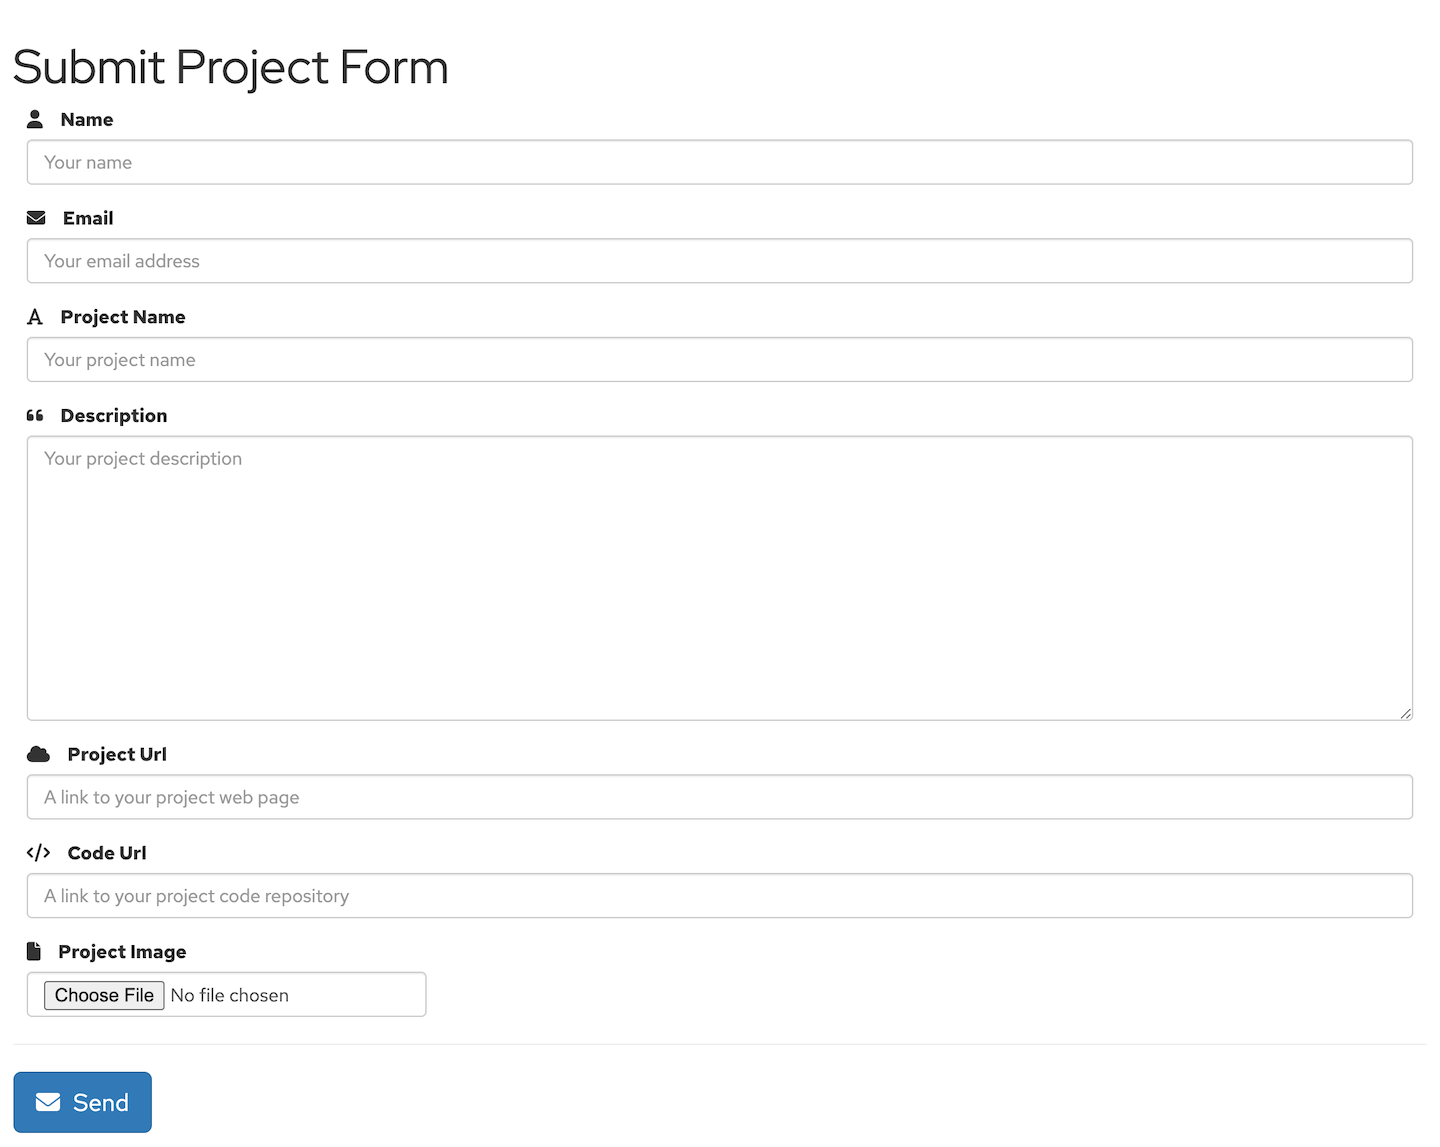
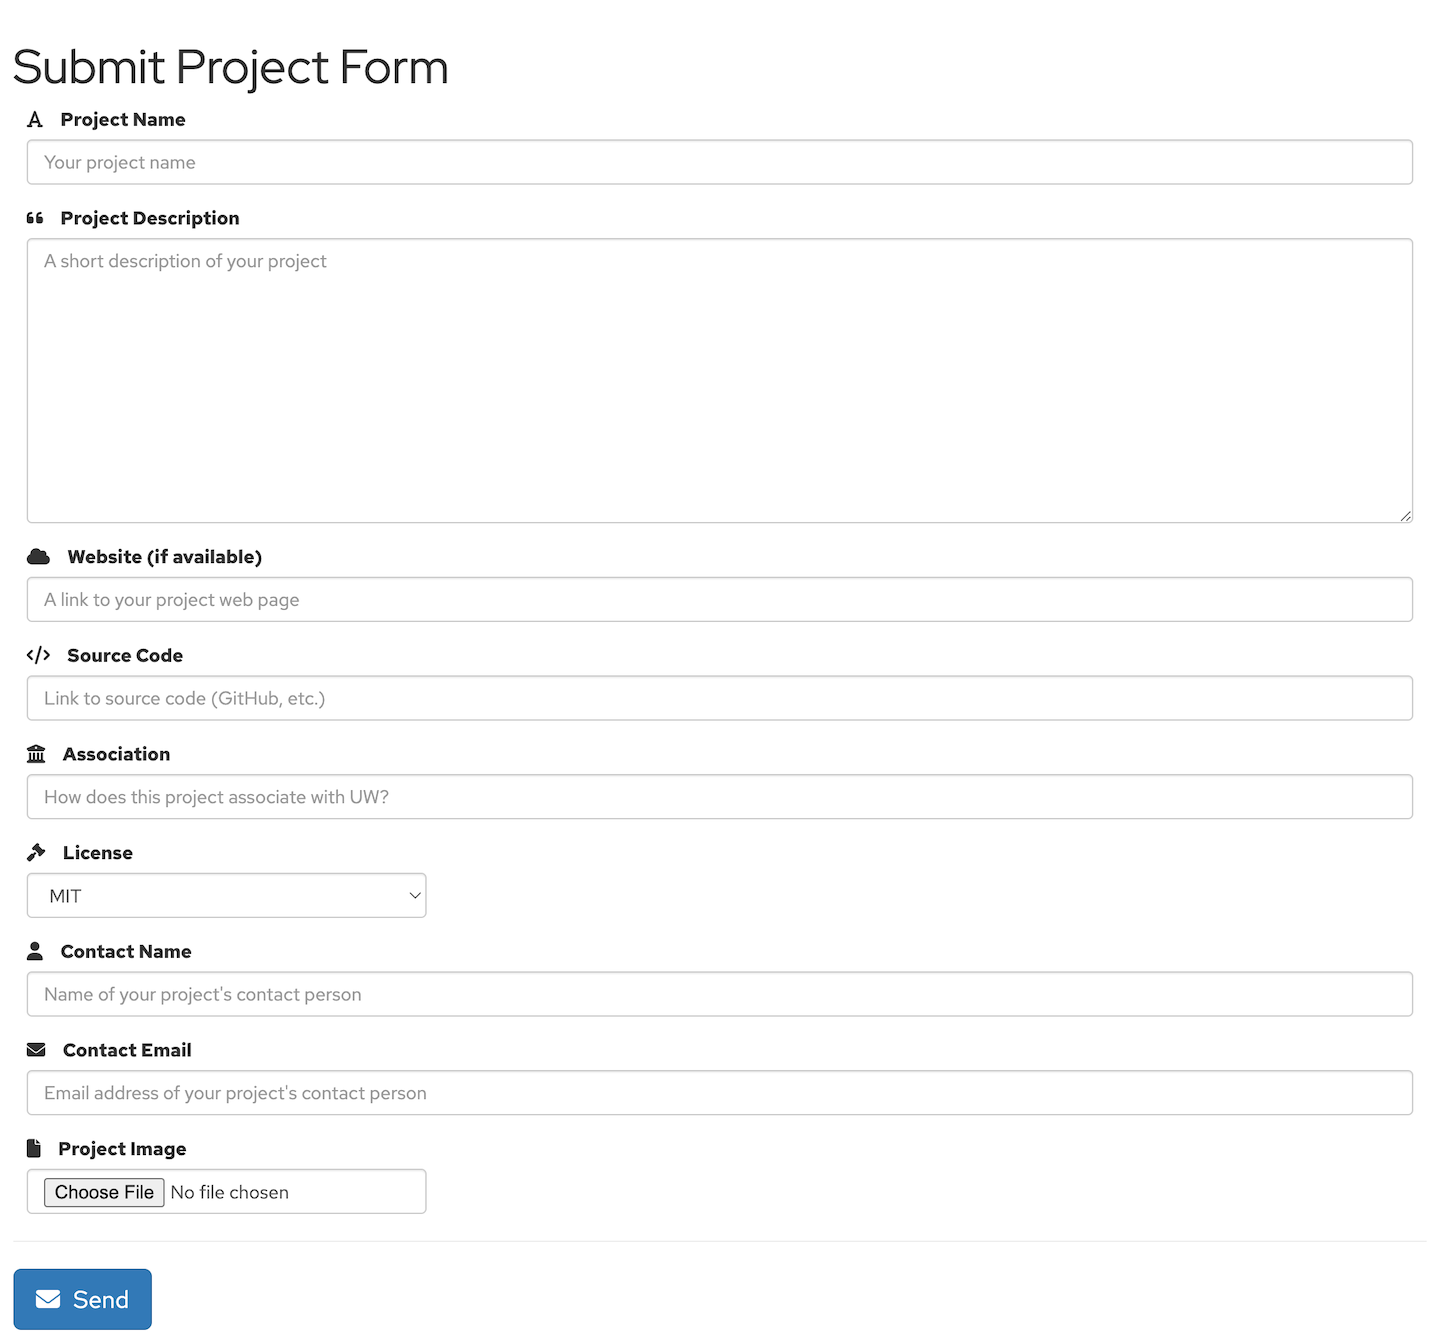
Updated submit project form.

Changed region(s): [[0.0, 0.2746, 0.9688, 0.9765], [0.0, 0.0305, 0.9688, 0.2441]]

diff --git a/src/submit-project.html b/src/submit-project.html
@@ -32,18 +32,6 @@
 		<script>
 			let server = 'http://localhost/contact-form/services/public/api';
 			let fields = {
-				"name": {
-					"icon": 'fa fa-user',
-					"label": 'Name',
-					"type": "input",
-					"placeholder": "Your name"
-				},
-				"email": {
-					"icon": "fa fa-envelope",
-					"label": "Email",
-					"type": "input",
-					"placeholder": "Your email address"
-				},
 				"project": {
 					"icon": "fa fa-font",
 					"label": "Project Name",
@@ -52,21 +40,45 @@
 				},
 				"description": {
 					"icon": "fa fa-quote-left",
-					"label": "Description",
+					"label": "Project Description",
 					"type": "textarea",
-					"placeholder": "Your project description"
+					"placeholder": "A short description of your project"
 				},
 				"project_url": {
 					"icon": "fa fa-cloud",
-					"label": "Project Url",
+					"label": "Website (if available)",
 					"type": "input",
 					"placeholder": "A link to your project web page"
 				},
 				"code_url": {
 					"icon": "fa fa-code",
-					"label": "Code Url",
+					"label": "Source Code",
 					"type": "input",
-					"placeholder": "A link to your project code repository"
+					"placeholder": "Link to source code (GitHub, etc.)"
+				},
+				"association": {
+					"icon": 'fa fa-institution',
+					"label": 'Association',
+					"type": "input",
+					"placeholder": "How does this project associate with UW?"
+				},
+				"license": {
+					"icon": 'fa fa-gavel',
+					"label": 'License',
+					"type": "select",
+					"options": ["MIT", "Apache", "ISC", "BSD-2", "BSD-3", "Creative Commons", "GPL", "LGPL", "Mozilla", "Eclipse", "Affero", "Other"]
+				},
+				"contact": {
+					"icon": 'fa fa-user',
+					"label": 'Contact Name',
+					"type": "input",
+					"placeholder": "Name of your project's contact person"
+				},
+				"contact_email": {
+					"icon": "fa fa-envelope",
+					"label": "Contact Email",
+					"type": "input",
+					"placeholder": "Email address of your project's contact person"
 				},
 				"attachment": {
 					"icon": "fa fa-image",
